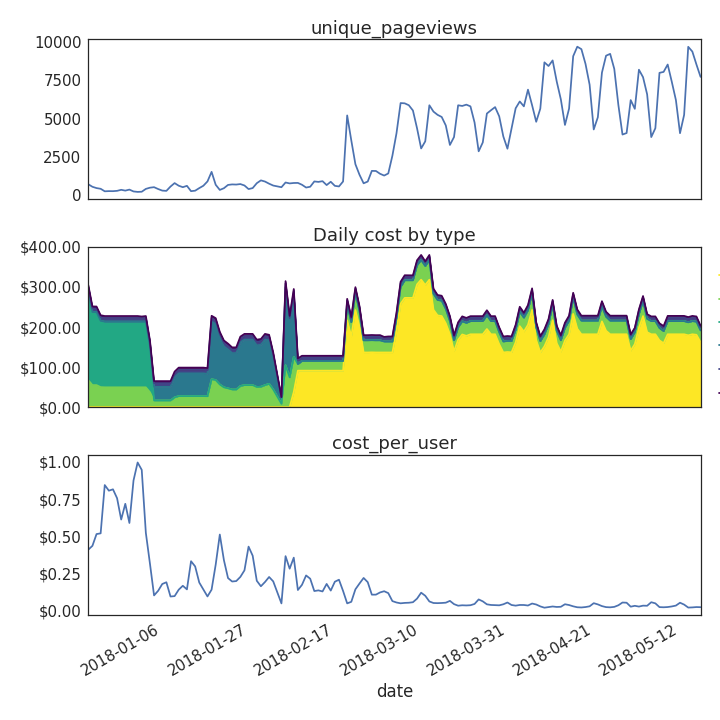
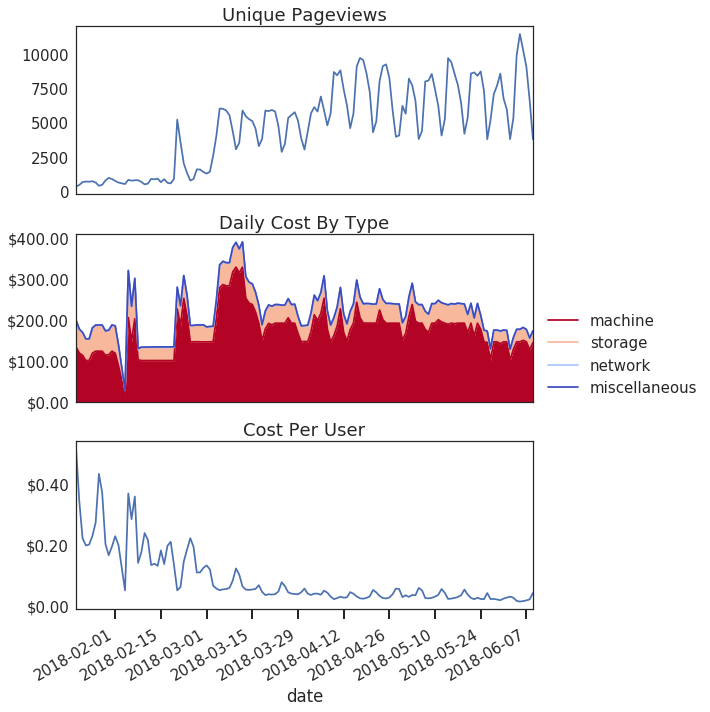
reviewer comments

diff --git a/papers/project_jupyter/paper.rst b/papers/project_jupyter/paper.rst
@@ -99,9 +99,9 @@ The scientific community is increasingly unified around reproducibility.
 A survey in 2016 of 1,576 researchers reported that 90% of respondents believed
 there exists a reproducibility crisis in the scientific community.
 A majority of respondents also reported difficulty
-reproducing the work of colleagues :cite:`Baker2016`. Similar results have
+reproducing the work of colleagues :cite:`Baker2016-gp`. Similar results have
 been reported in the cell biology community
-:cite:`The_American_Society_for_Cell_Biology_undated` and the machine
+:cite:`The_American_Society_for_Cell_Biology_undated-yv` and the machine
 learning community :cite:`Pineau2017-sb`.
 Making research reproducible requires pursuing two sub-goals, both of which are
 difficult to achieve:
@@ -113,7 +113,7 @@ difficult to achieve:
 
   enabling others to reproduce results without difficulty
 
-Both teachnical and practical reproducibility depend upon the software and
+Both technical and practical reproducibility depend upon the software and
 technology available to researchers at any moment in time. With the growth in
 open source tools for data analysis, as well as the “data heavy” approach many
 fields are adopting, these problems become more complex yet more tractable
@@ -138,6 +138,9 @@ To lower the technical barriers of sharing computational work,
 we introduce Binder 2.0, a tool that we believe makes reproducibility
 more practically possible.
 
+An overview of Binder
+---------------------
+
 Binder consists of a set of tools for creating sharable, interactive, and
 deterministic environments that run on personal computers and cloud resources.
 It manages the technical complexity around:
@@ -150,17 +153,37 @@ It manages the technical complexity around:
 Binder is built on modern-day tools from the open source community and is
 itself fully open source for others to use.
 
+You can access a public deployment of Binder at `mybinder.org <https://mybinder.org>`_,
+a web service that the Binder and JupyterHub teams run as a
+demonstration of the BinderHub technology and as digital public infrastructure
+for those who wish to share Binder links so that others may interact with
+their code repositories. It is meant to
+be a testing ground for different use cases in the Binder ecosystem as well as a public
+service for the scientific and educational community.
+`mybinder.org <https://mybinder.org>`_ serves nearly 9,000 daily sessions,
+and has already been used for `reproducible publishing
+<https://github.com/minrk/ligo-binder>`_ (https://github.com/minrk/ligo-binder), sharing `interactive course materials
+<https://www.inferentialthinking.com/chapters/01/3/plotting-the-classics.html>`_ (https://www.inferentialthinking.com/chapters/01/3/plotting-the-classics.html),
+at the university and high-school level, creating `interactive package documentation
+in Python <https://sphinx-gallery.readthedocs.io/en/latest/advanced_configuration.html#binder-links>`_
+with Sphinx Gallery (https://sphinx-gallery.readthedocs.io/en/latest/advanced_configuration.html#binder-links),
+and sharing `interactive content <http://greenteapress.com/wp/think-dsp/>`_
+that requires a language-specific kernel in order to run (http://greenteapress.com/wp/think-dsp).
 
-.. figure:: images/jupyterlab_binder_ui.png
+.. figure:: images/binder_uis.png
    :align: center
    :figclass: w
 
-   Examining image data from Ross et al. on Binder with JupyterLab :cite:`Ross2017-ff`.
-   JupyterLab is one of the three user interfaces available to Binder users.
-   In this example, we use JupyterLab to view additional image data in a code
-   console. Note that this modification to the code can be made without requiring
-   the user to install dependencies.
-
+   Two example user interfaces that users can run within Binder.
+   Because BinderHub uses a JupyterHub for hosting all user sessions, one can specify an
+   environment that serves any Jupyter-supported user interface, provided that it can run
+   via the browser. A. Examining image data from Ross et al. on Binder with JupyterLab :cite:`Ross2017-ff`.
+   JupyterLab provides access to the file system (left column), a notebook interface (middle column),
+   as well as traditional script files and interactive kernels (right column).
+   B. An RStudio interface running the modern RStudio and ``tidyverse`` stack.
+   In both cases, users can explore the code
+   and make their own modifications from within the Binder session, without any
+   need to manually install dependencies.
 
 Binder continues in the tradition of promoting "the complete software
 development environment and the complete set of instructions which generated
@@ -246,7 +269,7 @@ Binder runs as either a public or a private web service, and it needs to handle
 potentially large spikes in user sessions as well as sustained user activity
 over several minutes of time. It also needs to be deployable on a number of
 cloud providers in order to avoid locking in the technology to the offerings
-of a single cloud service.
+of a single cloud service. To accomplish this
 
 JupyterHub, an open source tool from the Jupyter community, provides a
 centralized resource that serves interactive user sessions. It allows
@@ -255,19 +278,9 @@ the Jupyter notebook server. A core principle of the Jupyter project is to be
 language- and workflow-agnostic, and JupyterHub is no exception. JupyterHub can
 be used to run dozens of languages served with a variety of user interfaces,
 including Jupyter Notebooks :cite:`Bussonnier2018-kc`, JupyterLab
-:cite:`Project_Jupyter_Contributors_2017-yi`,
-RStudio :cite:`Project_Juptyer_Contributors_2017-ra`, Stencila :cite:`RK_Min_2018-eq`,
+:cite:`Project_Jupyter_Contributors2017-yi`,
+RStudio :cite:`Project_Juptyer_Contributors2017-ra`, Stencila :cite:`RK_Min2018-eq`,
 and OpenRefine :cite:`Head2018-jf`.
-
-
-.. figure:: images/rstudio_ui.png
-   :align: center
-
-   An RStudio interface being served on ``mybinder.org``. Because BinderHub
-   uses a JupyterHub for hosting all user sessions, one can specify an
-   environment that serves any Jupyter-supported user interface, provided that it can run
-   via the browser.
-
 
 Another key benefit of JupyterHub is that it is straightforward to run on
 Kubernetes, a modern-day open source platform for orchestrating computational
@@ -278,7 +291,8 @@ Azure, and Amazon AWS each have managed Kubernetes clusters that run with minima
 user intervention. Thus, it is straightforward to deploy JupyterHub on any
 major cloud provider.
 
-Kubernetes is designed to be relatively self-healing and has a declarative
+Kubernetes is designed to be relatively self-healing, often automatically resolving
+problems that would normally disrupt the service. It also has a declarative
 syntax for defining the cloud resources that are needed to run a web service.
 Thus, maintainers can update a JupyterHub running on Kubernetes with minimal
 changes to configuration files for the deployment, providing the flexibility to
@@ -363,10 +377,11 @@ when a particular configuration file is present (e.g. ``requirements.txt`` will
 trigger the Python build pack). They also have a method called ``get_assemble_scripts``
 that inserts the necessary lines into a Dockerfile to support this workflow.
 
-For example, below we show a simplified version of the Python build pack. In
-this case, the ``detect`` method looks for a ``requirements.txt`` file and,
+For example, below we show a simplified version of the Python build pack in
+``repo2docker``. In this case, the ``detect`` method looks for a ``requirements.txt`` file and,
 if it exists, triggers the ``get_assemble_scripts`` method, which inserts
-lines into the Dockerfile that install Python and pip.
+lines into the Dockerfile that install Python and pip. Binder uses ``repo2docker``
+to build repository images dynamically.
 
 .. code-block:: python
 
@@ -386,19 +401,19 @@ lines into the Dockerfile that install Python and pip.
 
        # install requirements.txt in the kernel env
        requirements_file = self.binder_path(
-          'requirements.txt')
+        'requirements.txt')
        if os.path.exists(requirements_file):
-           assemble_scripts.append((
-               '${NB_USER}',
-               '{} install --no-cache-dir -r "{}"'.format(
-                  pip, requirements_file)
-           ))
+         assemble_scripts.append((
+             '${NB_USER}',
+             '{} install --no-cache-dir -r "{}"'.format(
+                pip, requirements_file)
+         ))
        return assemble_scripts
 
      def detect(self):
        """Check if repo builds w/ Python buildpack."""
        requirements_txt = self.binder_path(
-          'requirements.txt')
+        'requirements.txt')
        return os.path.exists(requirements_txt)
 
 Repo2docker also supports more generic configuration files that are applied
@@ -434,9 +449,9 @@ repo2docker will build an image with Python 3 and the packages pip installed.
 .. code-block:: bash
 
    $ cat requirements.txt
-      numpy
-      scipy
-      matplotlib
+   numpy
+   scipy
+   matplotlib
 
 While the following file name/content will install RStudio with these
 R commands run before building the Docker image.:
@@ -444,10 +459,10 @@ R commands run before building the Docker image.:
 .. code-block:: bash
 
    $ cat binder/install.R
-       install.packages("ggplot2")
+   install.packages("ggplot2")
 
    $ cat binder/runtime.txt
-       r-2017-10-24
+   r-2017-10-24
 
 In this case, the date specified in ``runtime.txt`` instructs repo2docker to
 use a specific MRAN repository :cite:`Microsoft_undated-gd` date. In addition,
@@ -466,7 +481,7 @@ researchers can use repo2docker to confirm that all of the information needed to
 recreate their analysis is contained within their configuration files, creating
 a way to intuitively define “recipes” for reproducing one’s work.
 
-A web-interface to user-defined kernels and interactive sessions (BinderHub)
+A web-interface to user-defined kernels and interactive sessions - BinderHub
 ----------------------------------------------------------------------------
 
 JupyterHub can serve multiple interactive user sessions from pre-defined Docker
@@ -496,19 +511,23 @@ form” user interface. This form lets users point BinderHub to a public git
 repository. When the form is filled in and the “launch” button is clicked,
 BinderHub takes the following actions:
 
-1. Check out the repository at the version that is specified.
-2. Compare the version specified in the URL with the versions that have been
+1. **Check out the repository** at the version that is specified.
+2. **Check the latest commit hash**. BinderHub compares the version specified in
+   the URL with the versions that have been previously
    built for this repository in the registry (if a branch is given, BinderHub
-   checks the latest commit hash)
-3. If the version has *not* been built, launch a repo2docker process that builds
+   checks the latest commit hash on this branch)
+3. If the version has *not* been built, **launch a repo2docker process** that builds
    and registers an image from the repository, then returns a reference to the
    registered image.
-4. Create a temporary JupyterHub user account for the visitor, with a private token.
-5. Launch an interactive JupyterHub user session that sources the repo2docker
+4. **Create a temporary JupyterHub user account** for the visitor, with a private token.
+5. **Launch a JupyterHub user session** that sources the repo2docker
    image in the registry. This session will serve the environment needed to run
    the repository, along with any GUI that the user specifies.
-6. Once the user departs, destroy the temporary user ID as well as any remnants
-   of their interactive Jupyter session.
+6. **Clean up the user session**. Once the user departs, Binder destroy's
+   the temporary user ID for the user's unique session, as well as their temporary
+   files from their interactive session (steps 4 and 5). The Docker image for the
+   repository persists, and will be used in subsequent launch attempts (as long as
+   the repository commit hash does not change).
 
 Once a repository has been built with BinderHub, authors can then share a URL
 that triggers this process. URLs for BinderHub take the following form:
@@ -538,7 +557,7 @@ steps described above.
 
 BinderHub currently provides a single REST endpoint that allows users to
 programmatically build and launch Binder repositories. It takes the following
-form::
+form:
 
 .. code-block:: bash
 
@@ -593,10 +612,10 @@ server REST API served at this URL).
 
 There are already several examples of services that use BinderHub’s REST API
 to run webpages and applications that utilize arbitrary kernel execution. For
-example, thebelab :cite:`Min_undated-qd` makes it possible to deploy static websites with code blocks
-that are powered by a BinderHub kernel. The author can define the environment
-needed to run code on the static page, and interactive code output can be
-generated by the end user once they visit the webpage. There are also several
+example, thebelab :cite:`Min_undated-qd` makes it possible to deploy HTML with code blocks
+that are powered by a BinderHub kernel. The website creator can define the environment
+needed to run code on the page, and the end user can generate interactive code output
+once they visit the webpage. There are also several
 applications that use BinderHub’s kernel API to power their computation. For
 example, the nteract :cite:`Nteract_contributors2016-dg` project uses BinderHub to
 run an interactive code sandbox that serves an nteract interface and can be
@@ -607,23 +626,27 @@ serve  as many use cases as possible. Our goal is to provide the tools to
 allow any person or organization to provide arbitrary, user-defined kernels
 that run in the cloud. The Binder team runs one such service as a proof-of-concept
 of the technology, as well as digital public infrastructure that can be used to share
-interactive code repositories. This service runs at the URL ``https://mybinder.org``
+interactive code repositories. This service runs at the URL `mybinder.org <https://mybinder.org>`_
 and will be discussed in the final section.
 
 Mybinder.org: Maintaining and sustaining a public service
 ---------------------------------------------------------
 
-You can access a public deployment of BinderHub at `mybinder.org <https://mybinder.org>`_.
-This a web service that the Binder and JupyterHub teams run both as a
-demonstration of the BinderHub technology and as a piece of digital public infrastructure
-for those who wish to share Binder links so that others may interact with
-their code repositories.
+On top of the technical components of the BinderHub, repo2docker, and JupyterHub architecture,
+the Binder project is also a case study in the maintenance and deployment of an
+open-source service. Managing the operations of a site such as `mybinder.org <https://mybinder.org>`_
+is not trivial, with challenges in team operations, maintaining service stability without
+any full-time staff, and exploring models for keeping the project financially sustainable
+over time. This final section describes recent efforts to address some of these questions,
+and to explore possible outcomes for others.
 
 The Binder team (and thus `mybinder.org <https://mybinder.org>`_) runs on a model of transparency and
 openness in the tools it creates as well as the operations of `mybinder.org <https://mybinder.org>`_.
 The Binder team has put together several group processes and documentation to
 facilitate maintaining this public service, and to provide a set of resources
-for others who wish to do the same. There are also several data streams that
+for others who wish to do the same. For example, the `Binder Site Reliability Guide <http://mybinder-sre.readthedocs.io/en/latest/>`_
+is continuously updated with team knowledge, incident reports, helper scripts, and a description of the
+technical deployment at `mybinder.org <https://mybinder.org>`_. There are also several data streams that
 the Binder team routinely makes available for others who are interested in
 deploying and maintaining a BinderHub service. For example, the `Binder Billing
 <https://github.com/jupyterhub/binder-billing>`_ repository shows all of the cloud
@@ -632,30 +655,15 @@ the `Binder Grafana board <https://grafana.mybinder.org>`_ shows a high-level
 view of the status of the BinderHub, JupyterHub, and Kubernetes processes
 underlying the service.
 
-`mybinder.org <https://mybinder.org>`_ is also meant to be a testing ground for different use cases
-in the Binder ecosystem. By running as a free, public service, we hope that
-members of the community will find new and interesting applications for Binder.
-For example, `mybinder.org <https://mybinder.org>`_ has already been used for `reproducible publishing
-<https://github.com/minrk/ligo-binder>`_ (https://github.com/minrk/ligo-binder), sharing `interactive course materials
-<https://www.inferentialthinking.com/chapters/01/3/plotting-the-classics.html>`_ (https://www.inferentialthinking.com/chapters/01/3/plotting-the-classics.html),
-at the university and high-school level, creating `interactive package documentation
-in Python <https://sphinx-gallery.readthedocs.io/en/latest/advanced_configuration.html#binder-links>`_
-with Sphinx Gallery (https://sphinx-gallery.readthedocs.io/en/latest/advanced_configuration.html#binder-links),
-and sharing `interactive content <http://greenteapress.com/wp/think-dsp/>`_
-that requires a language-specific kernel in order to run (http://greenteapress.com/wp/think-dsp).
+Cost of running the public Binder service
+~~~~~~~~~~~~~~~~~~~~~~~~~~~~~~~~~~~~~~~~~
 
-Cost of ``mybinder.org``
-~~~~~~~~~~~~~~~~~~~~~~~~
-
-We have designed the public service to be as cost effective as possible.
+The Binder team has designed the public service to be as cost effective as possible.
 `mybinder.org <https://mybinder.org>`_ restricts users to one CPU and two GB of RAM. We save a great deal
 by not providing users with persistent storage across sessions. Users can only
 access public git repositories and are restricted in the kinds of network I/O
 that can take place. In addition, a BinderHub deployment efficiently uses its
-resources in order to avoid over-provisioning cloud resources.  Because
-Kubernetes is an open source system for managing containers, while Binder
-currently runs on the Google Cloud Platform, Binder could run on any setup that runs
-on top of Kubernetes if that setup proved more cost effective.
+resources in order to avoid over-provisioning cloud resources.
 
 .. figure:: images/cost_breakdown.png
    :align: center
@@ -664,7 +672,7 @@ on top of Kubernetes if that setup proved more cost effective.
    one point per day. The number of daily unique users has consistently grown over this time,
    while modifications to the BinderHub codebase (as well as the cloud
    resources used) have kept costs relatively flat. As a result, ``mybinder.org``
-   currently operates at about 5 cents per user per day.
+   currently operates at about 3 cents per user per day.
 
 The decision to avoid the notion of a user "identity" in particular has strong
 effects on the cost of running a BinderHub server. Because users do not require
@@ -674,18 +682,31 @@ is avoided. In addition,
 a BinderHub deployment can efficiently use the resources available to it in
 order to avoid over-provisioning cloud resources as much as possible.
 
-Currently, the hosting bill for `mybinder.org <https://mybinder.org>`_ runs at a cost of several hundred dollars per
-day. At roughly 50,000 users per week, this comes out to around $\frac{220 \times30}{50000} \approx 13$ cents per
+Currently, the hosting bill for `mybinder.org <https://mybinder.org>`_ runs at a cost of
+around $180 per day and around 7,000 users per day. This
+comes out to around :math:`\frac{180 \times30}{7000 \times30} \approx 3` cents per
 user. The `mybinder.org <https://mybinder.org>`_ team publishes its daily hosting costs in a public
 repository on GitHub :cite:`JupyterHub2018-ek`.
 It hopes that this serves to encourage other organizations to deploy BinderHub
 for their own purposes, since it is possible to do so in a cost-effective
 manner.
 
+Finally, because Kubernetes is an open source system for managing containers, it has been deployed
+on a number of cloud providers as well as on self-owned hardware and virtual machines.
+While `mybinder.org <https://mybinder.org>`_ currently runs on the Google Cloud Platform,
+a BinderHub can run on any setup that runs on top of Kubernetes. This flexibility
+helps avoid vendor lock-in, and is crucial for an open source tool such as BinderHub and JupyterHub.
+It also makes it possible for `mybinder.org <https://mybinder.org>`_ (or other BinderHub
+deployments) to seek the most cost-effective option for its needs.
+
+
+Models for sustainability
+~~~~~~~~~~~~~~~~~~~~~~~~~
+
 The Binder team is exploring multiple models
 for sustaining the public digital infrastructure of `mybinder.org <https://mybinder.org>`_, the team required to operate it, and the
 broader Binder ecosystem. At its current rate, the annual hosting cost of
-`mybinder.org <https://mybinder.org>`_ is around $ \$ 220 \times 365 \approx 80000$ , an amount that could be sustainable with
+`mybinder.org <https://mybinder.org>`_ is around :math:`\$180 \times 365 \approx \$66,000`, an amount that could be sustainable with
 a grant-funded model. Operating and supporting the public digital infrastructure of `mybinder.org <https://mybinder.org>`_
 requires several staff members distributed globally to provide reasonable coverage
 across time zones for user support and incident response. This means salary costs will
